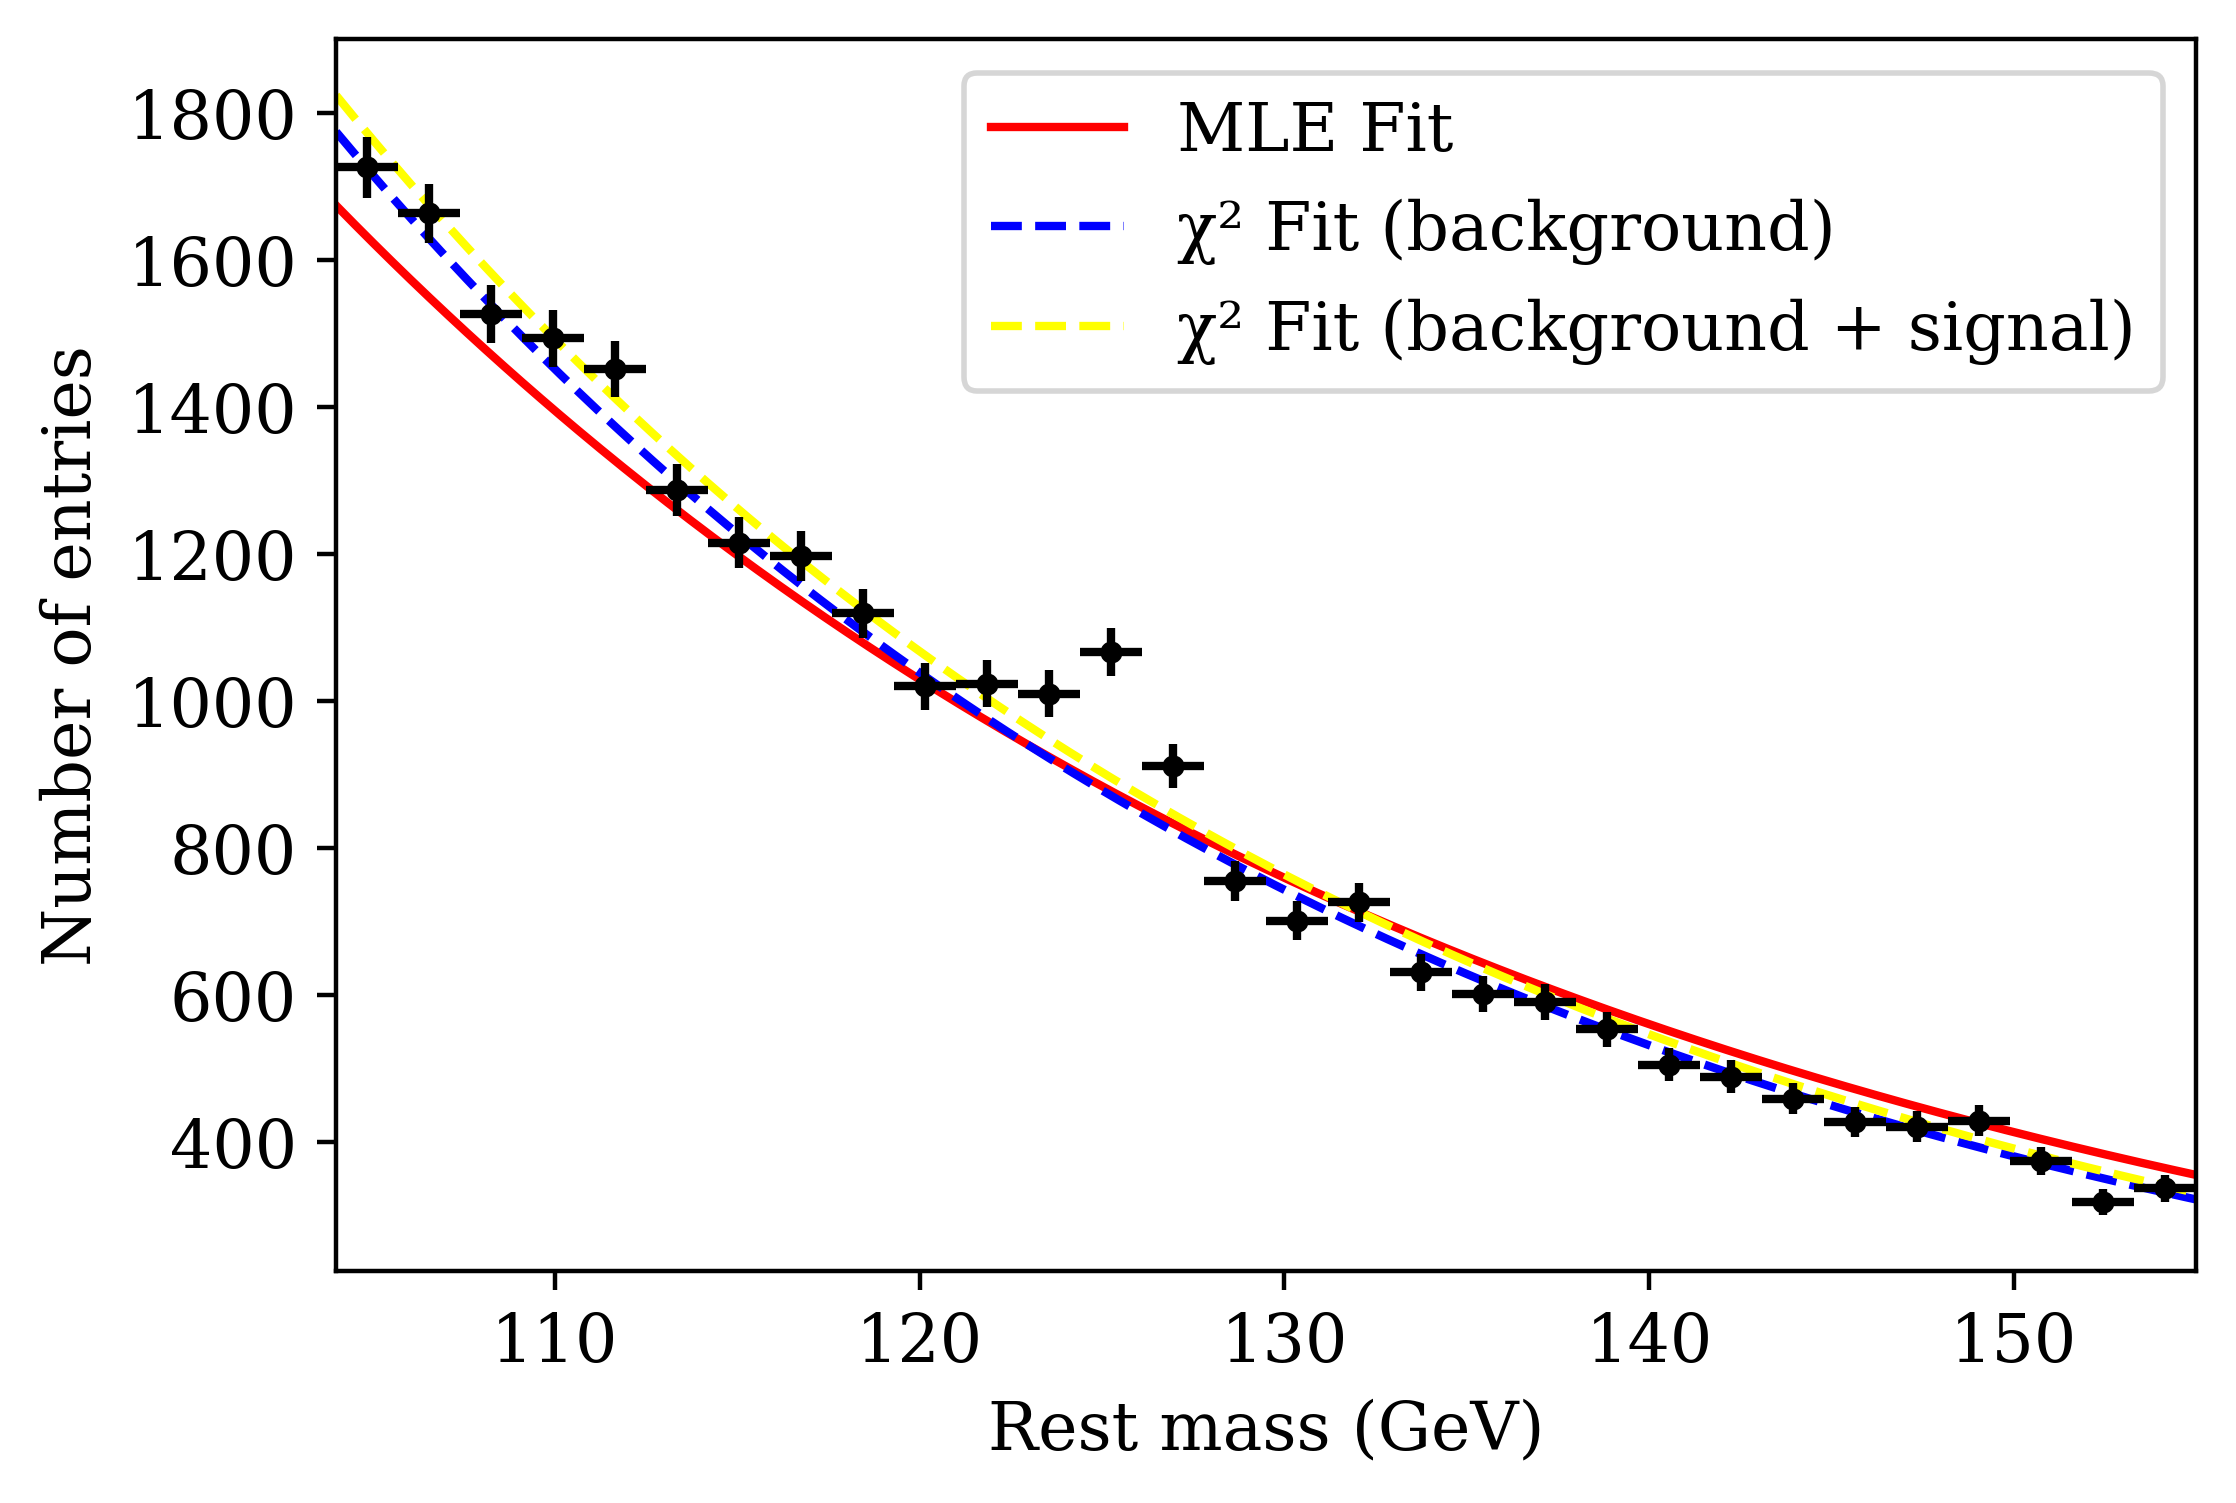
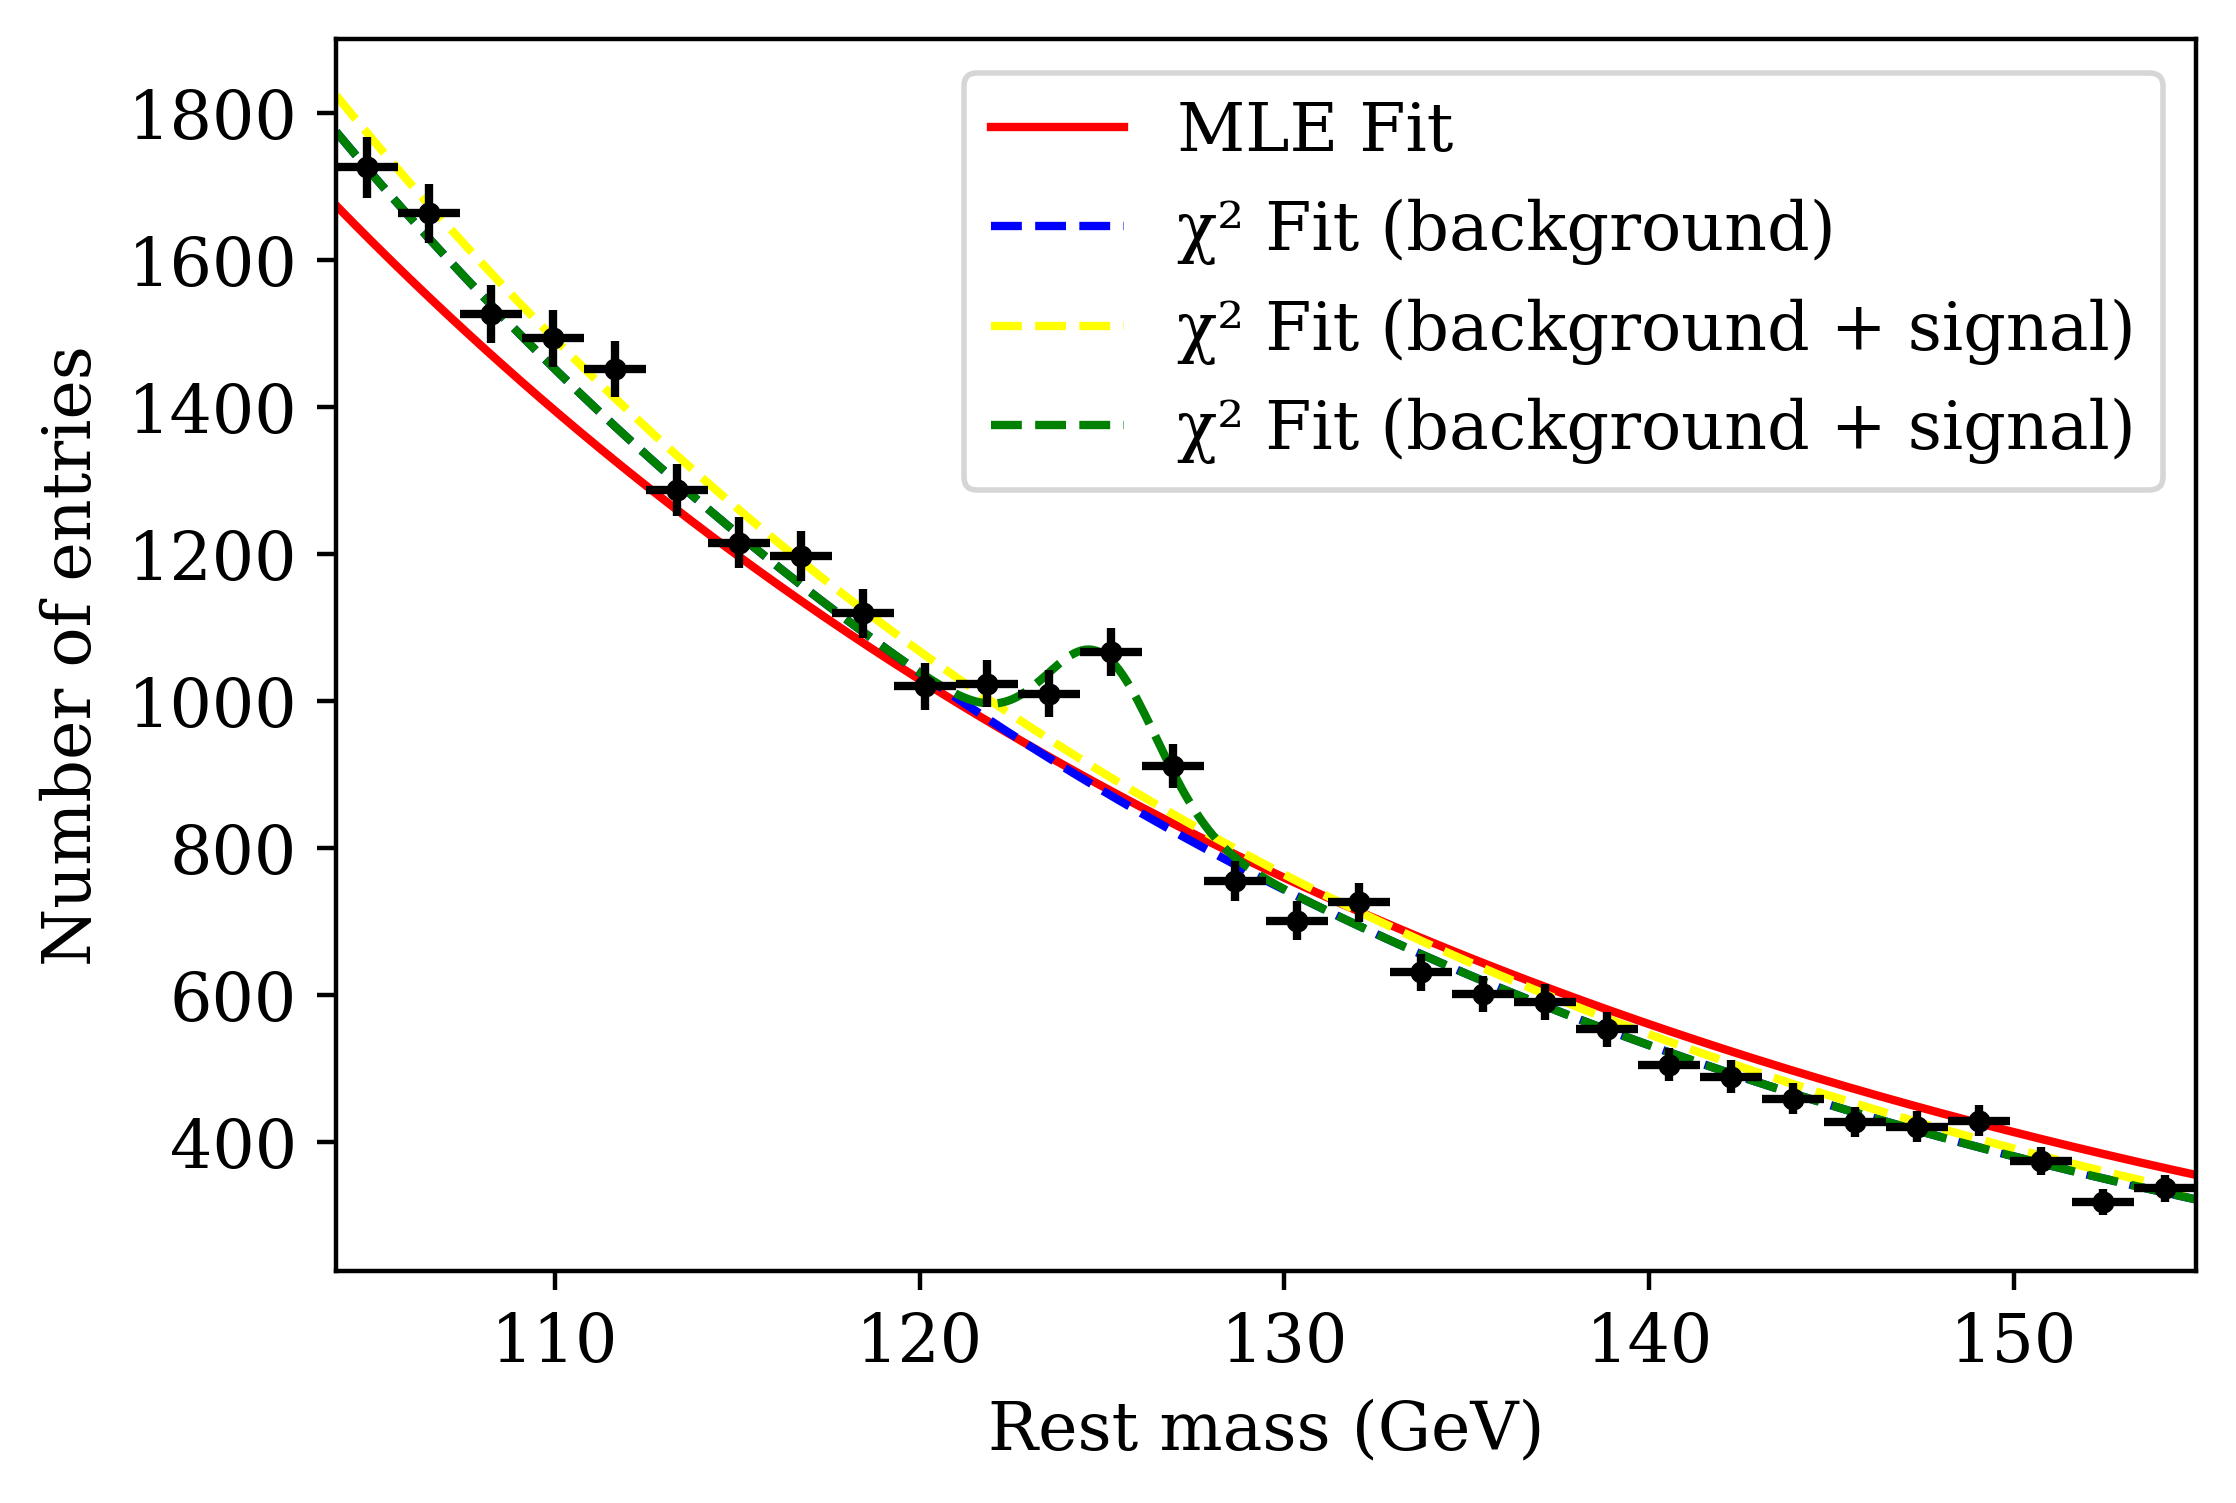
4b, 4c done

diff --git a/main.py b/main.py
@@ -29,7 +29,7 @@ def negative_log_likelihood(params, x_data, y_data):
     return nll
 
 
-def chi2_estimate(A_values, lamb_values, xs, ys):
+def chi2_estimate(A_values, lamb_values, xs, ys, mu=0, sig=1, signal_amp=0, output=True):
     '''
     Performs a χ² search for the best values of A and lambda.
     '''
@@ -38,20 +38,22 @@ def chi2_estimate(A_values, lamb_values, xs, ys):
     for i, A_trial in enumerate(A_values):
         for j, lamb_trial in enumerate(lamb_values):
             # Calculate expected background
-            B_expected = STOM_higgs_tools.get_B_expectation(xs, A_trial, lamb_trial)
+            B_expected = STOM_higgs_tools.get_SB_expectation(xs, A_trial, lamb_trial, mu, sig, signal_amp)
             chi2 = np.sum((ys - B_expected)**2 / B_expected)
             chi2_grid[i, j] = chi2
 
     min_index = np.unravel_index(np.argmin(chi2_grid), chi2_grid.shape)
     A_estimate, lamb_estimate = A_values[min_index[0]], lamb_values[min_index[1]]
     min_chi2 = chi2_grid[min_index]
-    print(f"χ² Results: A = {A_estimate:.1f}, λ = {lamb_estimate:.1f}, χ²/DoF = {min_chi2:.2f}")
+    if output:
+        print(f"χ² Results: A = {A_estimate:.1f}, λ = {lamb_estimate:.1f}, χ²/DoF = {min_chi2:.2f}")
     return A_estimate, lamb_estimate, min_chi2
 
 
 def main():
-    "The main data analysis"
-
+    '''
+    The main data analysis
+    '''
     # Generate data
     vals = np.array(STOM_higgs_tools.generate_data(n_signals=400))
 
@@ -98,19 +100,28 @@ def main():
     print(f"With signal (Background Only): p_value = {p_value} << 5%, should be rejected.")
 
     # signal plus background hypothesis
-    x = np.linspace(104, 155, 500)
-    y_gaussian = STOM_higgs_tools.get_SB_expectation(x, A_mle, lamb_mle, GAUSS_MEAN, GAUSS_STD, GAUSS_AMP)
+    ff_A_chi2, ff_lamb_chi2, ff_chi2_min = chi2_estimate(A_values, lamb_values, mean, bin_height, GAUSS_MEAN, GAUSS_STD, GAUSS_AMP)
+    p_value = 1 - sp_chi2.cdf(ff_chi2_min, (len(mean) - 2))
+    print(f"\nFull fit with signal and background: p_value = {p_value} < 5%, do not reject.")
+
+    # find amplitude for 5% p value
+    for amp in range(1100,1200): #trial and error
+        __A_chi2, __lamb_chi2, __chi2_min = chi2_estimate(A_values, lamb_values, mean, bin_height, GAUSS_MEAN, GAUSS_STD, amp, False)
+        p_value = 1 - sp_chi2.cdf(__chi2_min, (len(mean) - 2))
+        if round(p_value,3) == 0.05:
+            break
+    print(f"\nFor a p-val of 5.0%, we require a signal amplitude of {amp}")
 
 
-
-    # Plot both fits
+    # Plot fits
     plt.rcParams.update({'font.size': 12, 'font.family': 'serif', 'figure.dpi': 400})
     fig, ax = plt.subplots(figsize=(6, 4))
 
     x = np.linspace(104, 155, 500)
     ax.plot(x, STOM_higgs_tools.get_B_expectation(x, A_mle, lamb_mle), label="MLE Fit", color='red')
     ax.plot(x, STOM_higgs_tools.get_B_expectation(x, A_chi2, lamb_chi2), '--', label="χ² Fit (background)", color='blue')
-    ax.plot(x, STOM_higgs_tools.get_B_expectation(x, A_chi2_with_signal, lamb_chi2_with_signal), '--', label="χ² Fit (background + signal)", color='yellow')
+    #ax.plot(x, STOM_higgs_tools.get_B_expectation(x, A_chi2_with_signal, lamb_chi2_with_signal), '--', label="χ² Fit (background + signal)", color='yellow')
+    ax.plot(x, STOM_higgs_tools.get_SB_expectation(x, ff_A_chi2, ff_lamb_chi2, GAUSS_MEAN, GAUSS_STD, GAUSS_AMP), '--', label="χ² Fit (background + signal)", color='green')
     ax.errorbar(mean, bin_height, yerr=ystd, xerr=xstd, fmt='o', markersize=3, color='black')
 
     ax.set_xlim(104, 155)
